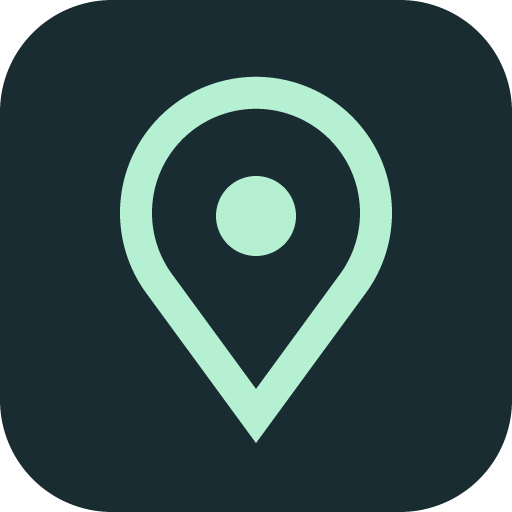
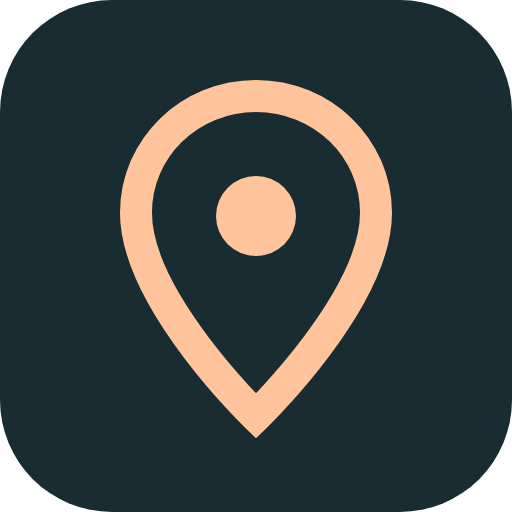
colour changes, update features

Changed region(s): [[0.2188, 0.125, 0.7812, 0.875], [0.4062, 0.3438, 0.5938, 0.5]]

diff --git a/client/src/styles.css b/client/src/styles.css
@@ -1,11 +1,11 @@
-/* Titik: dark, minimal, one accent. Use these tokens; don't add new hex colours for UI chrome. */
+/* Titik: deep teal with a warm apricot accent (dark), cream with burnt orange (light). Use these tokens; don't add new hex colours for UI chrome. */
 :root {
-  --primary: #b5f0d2;
+  --primary: #ffc49b;
   --on-primary: #192c31;
   --bg: #192c31;
   --card: #243b40;
-  --text: #f1f5f4;
-  --muted: #9bb3b1;
+  --text: #f4f6f5;
+  --muted: #9fb5b3;
 
   /* derived from the tokens above */
   --card-2: color-mix(in srgb, var(--card) 70%, var(--text) 6%);
@@ -19,8 +19,8 @@
   --st-submitted: var(--muted);
   --st-under_review: #f4d35e;
   --st-in_progress: #6fb7e8;
-  --st-resolved: var(--primary);
-  --st-rejected: #e58f8f;
+  --st-resolved: #9cd58c; /* green, so "fixed" still reads as done next to the apricot accent */
+  --st-rejected: #ef7f7f;
   --danger: var(--st-rejected);
   --warn: var(--st-under_review);
 
@@ -35,18 +35,18 @@
 
 /* Light mode: same layout, light tokens. Chosen with the sun/moon button (data-theme on <html>). */
 :root[data-theme='light'] {
-  --on-primary: #192c31;
-  --bg: #f3f7f6;
+  --on-primary: #2b1d16;
+  --bg: #fbf6f1;
   --card: #ffffff;
-  --text: #192c31;
-  --muted: #5b7370;
-  --accent: #1f7a57;
+  --text: #2b1d16;
+  --muted: #7a675b;
+  --accent: #b0521f;
   --primary-soft: color-mix(in srgb, var(--primary) 45%, transparent);
   --overlay: color-mix(in srgb, var(--text) 35%, transparent);
   --shadow: 0 10px 30px color-mix(in srgb, var(--text) 14%, transparent);
   --st-under_review: #8a6500;
   --st-in_progress: #2a73ad;
-  --st-resolved: var(--accent);
+  --st-resolved: #2f7d45;
   --st-rejected: #c04545;
   --on-danger: #ffffff;
   color-scheme: light;
@@ -130,7 +130,7 @@ button, input, select, textarea { font: inherit; color: inherit; }
   backdrop-filter: blur(10px);
   border-bottom: 1px solid var(--line);
 }
-.brand { display: inline-flex; align-items: center; gap: 8px; color: var(--text); font-weight: 600; font-size: 19px; letter-spacing: -0.03em; }
+.brand { display: inline-flex; align-items: center; gap: 8px; color: var(--text); font-weight: 700; font-size: 20px; letter-spacing: -0.045em; } /* the only 700 weight: the titik wordmark */
 .brand:hover { text-decoration: none; }
 .brand-mark { width: 26px; height: 26px; border-radius: 8px; background: var(--primary); color: var(--on-primary); display: grid; place-items: center; }
 .nav-right { margin-left: auto; display: flex; align-items: center; gap: 8px; }

diff --git a/client/index.html b/client/index.html
@@ -19,7 +19,7 @@
         try { t = localStorage.getItem('titik-theme'); } catch (e) {}
         if (!t) t = window.matchMedia && window.matchMedia('(prefers-color-scheme: light)').matches ? 'light' : 'dark';
         document.documentElement.dataset.theme = t;
-        if (t === 'light') document.querySelector('meta[name="theme-color"]').setAttribute('content', '#f3f7f6');
+        if (t === 'light') document.querySelector('meta[name="theme-color"]').setAttribute('content', '#fbf6f1');
       })();
     </script>
   </head>

diff --git a/client/src/utils.js b/client/src/utils.js
@@ -117,7 +117,7 @@ function savedTheme() {
 }
 export function applyTheme(theme) {
   document.documentElement.dataset.theme = theme;
-  document.querySelector('meta[name="theme-color"]')?.setAttribute('content', theme === 'light' ? '#f3f7f6' : '#192C31');
+  document.querySelector('meta[name="theme-color"]')?.setAttribute('content', theme === 'light' ? '#fbf6f1' : '#192C31');
 }
 // Cross-fade the whole page when the theme changes (about 0.6 s).
 // Uses the View Transitions API where available, else CSS colour transitions.

diff --git a/client/public/sw.js b/client/public/sw.js
@@ -2,7 +2,7 @@
 // - Pages: network first, so users always get the latest version; the last copy is used when offline.
 // - Built files (/assets/*, icons): cache first; their names change on every build.
 // - API calls and uploaded photos are never cached here, so report data is always fresh.
-const CACHE = 'titik-v1';
+const CACHE = 'titik-v3';
 const SHELL = ['/', '/manifest.webmanifest', '/favicon.svg', '/icon-192.png'];
 
 self.addEventListener('install', (event) => {

diff --git a/CLAUDE.md b/CLAUDE.md
@@ -81,19 +81,19 @@ Keep the layout flat: put new shared helpers in `utils.js` and small shared UI i
 
 ## Design rules
 
-Dark by default with a light mode, minimal, one accent. Use the CSS variables in `styles.css`; don't introduce new hex colours for UI chrome. Light-mode values live in the `:root[data-theme='light']` block; when you add a token, give it a light value there too.
+Dark by default (deep teal with a warm apricot accent) with a warm cream light mode, minimal, one accent. Use the CSS variables in `styles.css`; don't introduce new hex colours for UI chrome. Light-mode values live in the `:root[data-theme='light']` block; when you add a token, give it a light value there too.
 
 | Token | Value |
 |---|---|
-| `--primary` | `#B5F0D2` (buttons, active states, resolved status) |
+| `--primary` | `#FFC49B` apricot (buttons, active states) |
 | `--on-primary` | `#192C31` (text on primary) |
 | `--bg` | `#192C31` |
 | `--card` | `#243B40` |
-| `--text` | `#F1F5F4` |
-| `--muted` | `#9BB3B1` |
+| `--text` | `#F4F6F5` |
+| `--muted` | `#9FB5B3` |
 
-- Theme: the sun/moon button in the top bar sets `data-theme` on `<html>` via `useTheme()` in `utils.js` (follows the device until chosen, saved in localStorage; `index.html` sets it before first paint; switching cross-fades over 0.6 s via the View Transitions API, with a CSS fallback). Use `--primary` for fills (buttons, active dock item) and `--accent` for accent-coloured text, icons and borders, since mint text is unreadable on white.
-- Font: Inter (already bundled). Weights 400/500/600 only. Headings are 600 with slight negative letter-spacing.
+- Theme: the sun/moon button in the top bar sets `data-theme` on `<html>` via `useTheme()` in `utils.js` (follows the device until chosen, saved in localStorage; `index.html` sets it before first paint; switching cross-fades over 0.6 s via the View Transitions API, with a CSS fallback). Use `--primary` for fills (buttons, active dock item) and `--accent` for accent-coloured text, icons and borders, since apricot text is unreadable on white (light `--accent` is burnt orange `#B0521F`). Resolved status is its own green (`--st-resolved`), not the accent.
+- Font: Inter (already bundled). Weights 400/500/600 only; the one exception is the "titik" wordmark in the top bar (`.brand`, 700). Headings are 600 with slight negative letter-spacing.
 - Icons: Lucide only, thin strokes (1.75), single colour. **No emoji** in the UI or in notification text.
 - Status colours come from the `.st-<status>` classes (`--st` variable); category colours come from `/api/meta`.
 - Routes: `/` is the home feed (`ReportsPage`), `/map` is the map; `/reports` redirects to `/`, report details stay at `/reports/:id`.
@@ -101,7 +101,7 @@ Dark by default with a light mode, minimal, one accent. Use the CSS variables in
 - Filter and sort menus use `Dropdown` from `ui.jsx` (styled, with icons and a checkmark) rather than a native `<select>`; plain form fields can keep `<select className="select">`.
 - Map (`MapPage`, `ReportMap` in `GoogleMap.jsx`): filters are two `Dropdown`s (Show: Open / Fixed / All / Mine, and Category) plus a Near-me button; no page title. "All" excludes rejected; "Mine" (residents) uses `mine=1` and outlines pins by status. Pins cluster with `supercluster` (radius 60 px, individual pins from zoom 17); the selected report is never clustered. `/map?view=<tab>&report=<id>` opens a report (the location line on feed posts links there). The map loads up to 500 reports (server cap) for now.
 - Comments: `Comments` has an Instagram-style composer (auto-growing box + Post). On the feed it opens in a `Sheet` (bottom sheet on phones, stays above the keyboard); call `primeKeyboard()` in the tap handler so iOS opens the keyboard.
-- Installable app (PWA): `client/public/` holds `manifest.webmanifest`, `sw.js`, `favicon.svg` and the PNG icons (served at fixed URLs; Vite `publicDir`). `main.jsx` registers the service worker in production builds only. The worker caches built files and pages (network first) but never `/api` or `/uploads`. When you change caching, bump `CACHE` in `sw.js`. `useInstall()` in `utils.js` drives Profile > "Install the app". The top bar pads for the iPhone status bar with `--safe-t`.
+- Installable app (PWA): `client/public/` holds `manifest.webmanifest`, `sw.js`, `favicon.svg` and the PNG icons (apricot pin on teal; served at fixed URLs; Vite `publicDir`). `main.jsx` registers the service worker in production builds only. The worker caches built files and pages (network first) but never `/api` or `/uploads`. When you change caching, bump `CACHE` in `sw.js`. `useInstall()` in `utils.js` drives Profile > "Install the app". The top bar pads for the iPhone status bar with `--safe-t`.
 - Keep copy short and plain. Labels like "Me too", "Hoax" and "Same issue" are fixed terms from the assignment.
 
 ## Configuration

diff --git a/README.md b/README.md
@@ -1,6 +1,6 @@
 # Titik
 
-![Titik Logo](images/LogoTitik.png)
+![Titik Logo](LogoTitik.png)
 
 Civic reporting around Malaysia (pilot). Residents report damaged public infrastructure with a photo and GPS, the report is routed to the responsible local council, and residents follow it until it is fixed. The community confirms reports ("Me too") or flags them ("Hoax"), and contributions earn points that can be redeemed for rewards. Council staff work from a dashboard scoped to their own area.
 
